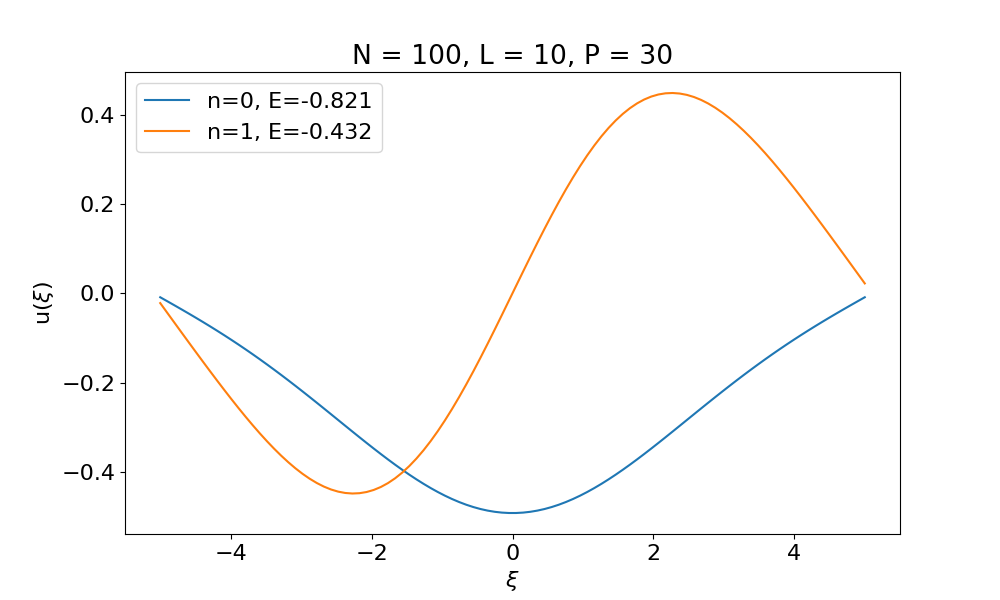
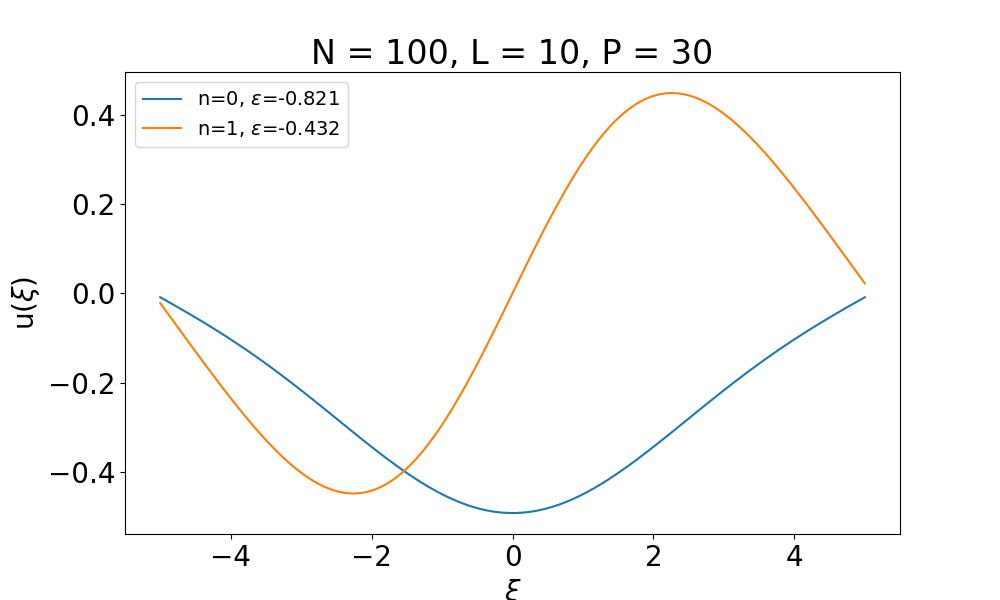
changed plots to have epsilon

diff --git a/Plots.py b/Plots.py
@@ -2,7 +2,8 @@ from Functions import *
 from Grid import *
 import matplotlib.pyplot as plt
 
-plt.rcParams.update({'font.size': 16})
+plt.rcParams.update({'font.size': 20})
+plt.rc('legend', fontsize=14)
 
 # Plot 1: N = 100, L = 10, P = 30
 
@@ -16,7 +17,7 @@ fig1 = plt.figure(figsize=(10, 6))
 ax1 = fig1.add_subplot(1, 1, 1)
 for i, psi in enumerate(bound_wavefunctions.T):
     psi_norm = psi / np.sqrt(np.trapezoid((np.abs(psi)**2), xi))  
-    ax1.plot(xi, psi_norm, label=f'n={i}, E={bound_energies[i]:.3f}')
+    ax1.plot(xi, psi_norm, label=f'n={i}, $\u03B5$={bound_energies[i]:.3f}')
 ax1.set_xlabel('$\u03BE$')
 ax1.set_ylabel('u($\u03BE$)')
 ax1.set_title('N = 100, L = 10, P = 30')
@@ -37,7 +38,7 @@ fig2 = plt.figure(figsize=(10, 6))
 ax2 = fig2.add_subplot(1, 1, 1)
 for i, psi in enumerate(bound_wavefunctions.T):
     psi_norm = psi / np.sqrt(np.trapezoid((np.abs(psi)**2), xi))  
-    ax2.plot(xi, psi_norm, label=f'n={i}, E={bound_energies[i]:.3f}')
+    ax2.plot(xi, psi_norm, label=f'n={i}, $\u03B5$={bound_energies[i]:.3f}')
 ax2.set_xlabel('$\u03BE$')
 ax2.set_ylabel('u($\u03BE$)')
 ax2.set_title('N = 100, L = 50, P = 30')
@@ -58,7 +59,7 @@ fig3 = plt.figure(figsize=(10, 6))
 ax3 = fig3.add_subplot(1, 1, 1)
 for i, psi in enumerate(bound_wavefunctions.T):
     psi_norm = psi / np.sqrt(np.trapezoid((np.abs(psi)**2), xi))  
-    ax3.plot(xi, psi_norm, label=f'n={i}, E={bound_energies[i]:.3f}')
+    ax3.plot(xi, psi_norm, label=f'n={i}, $\u03B5$={bound_energies[i]:.3f}')
 ax3.set_xlabel('$\u03BE$')
 ax3.set_ylabel('u($\u03BE$)')
 ax3.set_title('N = 100, L = 100, P = 30')
@@ -79,7 +80,7 @@ fig4 = plt.figure(figsize=(10, 6))
 ax4 = fig4.add_subplot(1, 1, 1)
 for i, psi in enumerate(bound_wavefunctions.T):
     psi_norm = psi / np.sqrt(np.trapezoid((np.abs(psi)**2), xi))  
-    ax4.plot(xi, psi_norm, label=f'n={i}, E={bound_energies[i]:.3f}')
+    ax4.plot(xi, psi_norm, label=f'n={i}, $\u03B5$={bound_energies[i]:.3f}')
 ax4.set_xlabel('$\u03BE$')
 ax4.set_ylabel('u($\u03BE$)')
 ax4.set_title('N = 100, L = 150, P = 30')
@@ -100,7 +101,7 @@ fig5 = plt.figure(figsize=(10, 6))
 ax5 = fig5.add_subplot(1, 1, 1)
 for i, psi in enumerate(bound_wavefunctions.T):
     psi_norm = psi / np.sqrt(np.trapezoid((np.abs(psi)**2), xi))  
-    ax5.plot(xi, psi_norm, label=f'n={i}, E={bound_energies[i]:.3f}')
+    ax5.plot(xi, psi_norm, label=f'n={i}, $\u03B5$={bound_energies[i]:.3f}')
 ax5.set_xlabel('$\u03BE$')
 ax5.set_ylabel('u($\u03BE$)')
 ax5.set_title('N = 100, L = 100, P = 30')
@@ -121,7 +122,7 @@ fig6 = plt.figure(figsize=(10, 6))
 ax6 = fig6.add_subplot(1, 1, 1)
 for i, psi in enumerate(bound_wavefunctions.T):
     psi_norm = psi / np.sqrt(np.trapezoid((np.abs(psi)**2), xi))  
-    ax6.plot(xi, psi_norm, label=f'n={i}, E={bound_energies[i]:.3f}')
+    ax6.plot(xi, psi_norm, label=f'n={i}, $\u03B5$={bound_energies[i]:.3f}')
 ax6.set_xlabel('$\u03BE$')
 ax6.set_ylabel('u($\u03BE$)')
 ax6.set_title('N = 500, L = 100, P = 30')
@@ -142,7 +143,8 @@ fig7 = plt.figure(figsize=(10, 6))
 ax7 = fig7.add_subplot(1, 1, 1)
 for i, psi in enumerate(bound_wavefunctions.T):
     psi_norm = psi / np.sqrt(np.trapezoid((np.abs(psi)**2), xi))  
-    ax7.plot(xi, psi_norm, label=f'n={i}, E={bound_energies[i]:.3f}')
+    ax7.plot(xi, psi_norm, label=f'n={i}, $\u03B5$={bound_energies[i]:.3f}')
+ax7.plot(xi, potential_energy(xi, q_parameter(30)), 'k--', label='Potential Energy')
 ax7.set_xlabel('$\u03BE$')
 ax7.set_ylabel('u($\u03BE$)')
 ax7.set_title('N = 1000, L = 100, P = 30')
@@ -166,6 +168,7 @@ ax8.set_ylabel('Energy')
 ax8.legend(['Numerical', 'Analytical'])
 plt.savefig('Plot8_Analytical_vs_Numerical_Energies.png')
 plt.show()
+
 
 
 

diff --git a/functions.py b/functions.py
@@ -76,7 +76,7 @@ def Modulation_Frequency(epsilon_0, epsilon_2):
 
 def Time_Evolving_Potential(xi, p, t, eta, omega):
     
-    V_t = - (1 + eta * np.sin(omega * t)) / (np.cosh(q_parameter(p) * xi) ** 2)
+    V_t = - (1 + (eta * np.sin(omega * t))) / (np.cosh(q_parameter(p) * xi) ** 2)
     return V_t
 
 def Time_Evolving_Hamiltonian(N, p, dx, xi, t, eta, omega):
